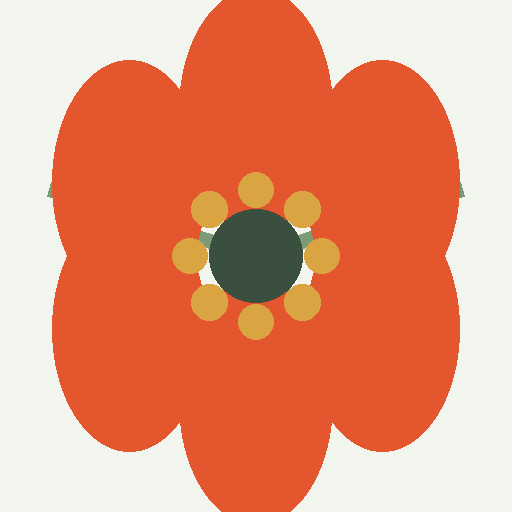
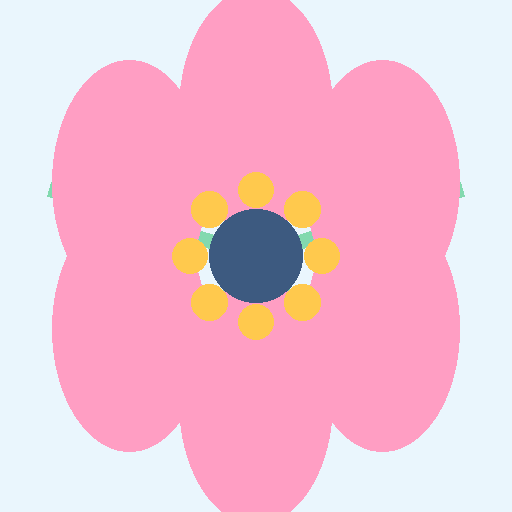
Recolor to cute sky-blue gingham theme, fix dandelion sepal data
Reworks the palette to a soft blue/pink kawaii style with a gingham
background and rounder shapes, matching a reference the user liked.
Also corrects the dandelion's sepal, which is a pappus (many, no
fixed count) rather than a quizzable number, per the printed
reference material the user shared.

diff --git a/index.html b/index.html
@@ -4,7 +4,7 @@
 <meta charset="UTF-8">
 <meta name="viewport" content="width=device-width, initial-scale=1.0">
 <title>花のつくり暗記ゲーム</title>
-<meta name="theme-color" content="#E4572E">
+<meta name="theme-color" content="#5FA8DE">
 <meta name="description" content="花の構造・虫媒花風媒花・花粉の形を覚えるクイズゲーム">
 <link rel="manifest" href="manifest.json">
 <link rel="icon" href="icons/favicon.png">
@@ -14,50 +14,59 @@
 <meta name="apple-mobile-web-app-title" content="花のつくり">
 <style>
   :root{
-    --bg:#F2F5EE;
-    --bg-grid:#E3EAD7;
+    --bg:#EAF6FD;
+    --bg-grid:#E1F1FC;
+    --gingham-a: rgba(94,169,222,.24);
+    --gingham-b: rgba(94,169,222,.13);
     --card:#FFFFFF;
-    --ink:#1F2E22;
-    --ink-soft:#55655A;
-    --border:#D8E2CB;
-    --accent:#E4572E;     /* 花びら色 */
-    --accent-2:#D9A441;   /* おしべ色 */
-    --sage:#7A9B76;       /* がく色 */
-    --pistil:#3A4F3D;     /* めしべ色 */
-    --good:#3F8A52;
-    --bad:#C4483A;
-    --shadow: 0 1px 2px rgba(31,46,34,.06), 0 6px 16px rgba(31,46,34,.08);
+    --ink:#33495A;
+    --ink-soft:#6F93AA;
+    --border:#CFE7F7;
+    --accent:#5FA8DE;     /* UIのメインカラー(水色) */
+    --accent-2:#FFC94D;   /* おしべ色・ハイライト */
+    --petal:#FF9EC3;      /* 花びら色 */
+    --sage:#82D9AF;       /* がく色 */
+    --pistil:#3D5A80;     /* めしべ色 */
+    --good:#4FBE8C;
+    --bad:#F2897D;
+    --shadow: 0 2px 6px rgba(95,168,222,.12), 0 10px 26px rgba(95,168,222,.18);
   }
   :root[data-theme="dark"]{
-    --bg:#121A14;
-    --bg-grid:#18221A;
-    --card:#1B241C;
-    --ink:#E9F0E3;
-    --ink-soft:#A9B9A0;
-    --border:#2A3A28;
-    --accent:#F0714B;
-    --accent-2:#E8B65B;
-    --sage:#8FB389;
-    --pistil:#DCE7D6;
-    --good:#63B579;
-    --bad:#E4795F;
-    --shadow: 0 1px 2px rgba(0,0,0,.3), 0 8px 20px rgba(0,0,0,.35);
+    --bg:#15212C;
+    --bg-grid:#1C2C39;
+    --gingham-a: rgba(111,187,239,.16);
+    --gingham-b: rgba(111,187,239,.08);
+    --card:#1E2F3C;
+    --ink:#E8F5FC;
+    --ink-soft:#9BC2DA;
+    --border:#2D4356;
+    --accent:#6FBBEF;
+    --accent-2:#FFD873;
+    --petal:#FFACCF;
+    --sage:#7BD3A5;
+    --pistil:#CDE3F6;
+    --good:#63D19B;
+    --bad:#FF9686;
+    --shadow: 0 2px 6px rgba(0,0,0,.35), 0 10px 28px rgba(0,0,0,.42);
   }
   @media (prefers-color-scheme: dark){
     :root:not([data-theme="light"]){
-      --bg:#121A14;
-      --bg-grid:#18221A;
-      --card:#1B241C;
-      --ink:#E9F0E3;
-      --ink-soft:#A9B9A0;
-      --border:#2A3A28;
-      --accent:#F0714B;
-      --accent-2:#E8B65B;
-      --sage:#8FB389;
-      --pistil:#DCE7D6;
-      --good:#63B579;
-      --bad:#E4795F;
-      --shadow: 0 1px 2px rgba(0,0,0,.3), 0 8px 20px rgba(0,0,0,.35);
+      --bg:#15212C;
+      --bg-grid:#1C2C39;
+      --gingham-a: rgba(111,187,239,.16);
+      --gingham-b: rgba(111,187,239,.08);
+      --card:#1E2F3C;
+      --ink:#E8F5FC;
+      --ink-soft:#9BC2DA;
+      --border:#2D4356;
+      --accent:#6FBBEF;
+      --accent-2:#FFD873;
+      --petal:#FFACCF;
+      --sage:#7BD3A5;
+      --pistil:#CDE3F6;
+      --good:#63D19B;
+      --bad:#FF9686;
+      --shadow: 0 2px 6px rgba(0,0,0,.35), 0 10px 28px rgba(0,0,0,.42);
     }
   }
 
@@ -65,10 +74,13 @@
   body{
     margin:0;
     min-height:100vh;
-    background:
-      linear-gradient(var(--bg-grid) 1px, transparent 1px) 0 0/28px 28px,
-      linear-gradient(90deg, var(--bg-grid) 1px, transparent 1px) 0 0/28px 28px,
-      var(--bg);
+    background-color:var(--bg);
+    background-image:
+      repeating-linear-gradient(0deg, transparent, transparent 19px, var(--gingham-a) 19px, var(--gingham-a) 38px),
+      repeating-linear-gradient(90deg, transparent, transparent 19px, var(--gingham-a) 19px, var(--gingham-a) 38px),
+      repeating-linear-gradient(0deg, transparent, transparent 9px, var(--gingham-b) 9px, var(--gingham-b) 19px),
+      repeating-linear-gradient(90deg, transparent, transparent 9px, var(--gingham-b) 9px, var(--gingham-b) 19px);
+    background-attachment: fixed;
     color:var(--ink);
     font-family: "BIZ UDPGothic","Hiragino Maru Gothic ProN","Yu Gothic Medium","Yu Gothic","Hiragino Sans","Noto Sans JP",sans-serif;
     -webkit-font-smoothing:antialiased;
@@ -83,17 +95,27 @@
     margin-bottom:22px;
   }
   .eyebrow{
+    display:inline-block;
     font-size:12px;
-    letter-spacing:.14em;
-    color:var(--ink-soft);
-    text-transform:uppercase;
-    font-family:"Hiragino Mincho ProN","Yu Mincho",serif;
+    letter-spacing:.1em;
+    color:var(--accent);
+    font-weight:700;
+    background:color-mix(in srgb, var(--accent) 14%, transparent);
+    padding:4px 14px;
+    border-radius:999px;
   }
   h1{
-    margin:6px 0 4px;
+    margin:12px 0 4px;
     font-size:clamp(24px,5vw,32px);
     text-wrap:balance;
     letter-spacing:.02em;
+  }
+  h1::before, h1::after{
+    content:"🎀";
+    font-size:0.55em;
+    margin:0 10px;
+    vertical-align:middle;
+    opacity:.85;
   }
   .sub{
     color:var(--ink-soft);
@@ -112,7 +134,7 @@
     font-size:14px;
     font-weight:700;
     padding:10px 16px;
-    border-radius:10px 10px 0 0;
+    border-radius:16px 16px 0 0;
     border:1px solid var(--border);
     border-bottom:none;
     background:var(--bg-grid);
@@ -132,9 +154,9 @@
   .panel{
     background:var(--card);
     border:1px solid var(--border);
-    border-radius:0 12px 12px 12px;
+    border-radius:6px 22px 22px 22px;
     box-shadow:var(--shadow);
-    padding:22px;
+    padding:24px;
   }
   .panel[hidden]{ display:none; }
 
@@ -161,7 +183,7 @@
     position:absolute;
     inset:0;
     backface-visibility:hidden;
-    border-radius:10px;
+    border-radius:18px;
     border:1px solid var(--border);
     display:flex;
     flex-direction:column;
@@ -244,7 +266,7 @@
     font-size:16px;
     font-weight:700;
     padding:14px 6px;
-    border-radius:10px;
+    border-radius:16px;
     border:1px solid var(--border);
     background:var(--bg-grid);
     color:var(--ink);
@@ -270,8 +292,8 @@
     margin:18px auto 0;
     font:inherit;
     font-weight:700;
-    padding:10px 22px;
-    border-radius:10px;
+    padding:11px 24px;
+    border-radius:999px;
     border:none;
     background:var(--accent);
     color:#fff;
@@ -311,7 +333,7 @@
   @media (max-width:520px){ .compare{ grid-template-columns:1fr; } }
   .compare .col{
     border:1px solid var(--border);
-    border-radius:10px;
+    border-radius:18px;
     padding:14px;
     background:var(--bg-grid);
   }
@@ -343,7 +365,7 @@
   }
   .pollen-card{
     border:1px solid var(--border);
-    border-radius:10px;
+    border-radius:18px;
     background:var(--bg-grid);
     padding:12px;
     text-align:center;
@@ -358,7 +380,7 @@
     padding:2px 8px;
     border-radius:999px;
   }
-  .pollen-card .ptype.insect{ background:color-mix(in srgb, var(--accent) 20%, transparent); color:var(--accent); }
+  .pollen-card .ptype.insect{ background:color-mix(in srgb, var(--petal) 22%, transparent); color:var(--petal); }
   .pollen-card .ptype.wind{ background:color-mix(in srgb, var(--sage) 22%, transparent); color:var(--sage); }
   .pollen-card .pdesc{ font-size:12px; color:var(--ink-soft); line-height:1.5; }
 
@@ -373,7 +395,7 @@
     flex:1;
     min-width:110px;
     border:1px solid var(--border);
-    border-radius:10px;
+    border-radius:16px;
     padding:12px;
     text-align:center;
     background:var(--bg-grid);
@@ -430,7 +452,7 @@
     gap:10px;
     padding:9px 12px;
     border:1px solid var(--border);
-    border-radius:8px;
+    border-radius:14px;
     margin-bottom:6px;
     background:var(--bg-grid);
     font-size:13px;
@@ -464,6 +486,7 @@
     .flip-card .inner{ transition:none; }
   }
 </style>
+
 </head>
 <body>
 
@@ -612,11 +635,11 @@ const FLOWERS = [
   { name:"アサガオ",   fam:"ヒルガオ科", sepal:5, petal:5, stamen:5, pistil:1, note:"花びらは合弁（くっついている）" },
   { name:"エンドウ",   fam:"マメ科", sepal:5, petal:5, stamen:10, pistil:1, note:"蝶形の花、おしべ10本(9+1)" },
   { name:"サクラ",     fam:"バラ科", sepal:5, petal:5, stamen:30, pistil:1, note:"おしべは多数(約30本前後)" },
-  { name:"タンポポ",   fam:"キク科", sepal:5, petal:5, stamen:5, pistil:1, note:"1つの小花あたりの数。頭花は小花の集合" },
+  { name:"タンポポ",   fam:"キク科", sepal:8, petal:5, stamen:5, pistil:1, note:"1つの小花あたりの数。頭花は小花の集合", skipQuiz:["sepal"], display:{sepal:"多数（冠毛）"} },
 ];
 const PARTS = [
   { key:"sepal", label:"がく", unit:"枚", color:"var(--sage)" },
-  { key:"petal", label:"花びら", unit:"枚", color:"var(--accent)" },
+  { key:"petal", label:"花びら", unit:"枚", color:"var(--petal)" },
   { key:"stamen", label:"おしべ", unit:"本", color:"var(--accent-2)" },
   { key:"pistil", label:"めしべ", unit:"本", color:"var(--pistil)" },
 ];
@@ -632,7 +655,7 @@ function diagramSVG(f, size){
   const petalCount = Math.min(f.petal, 12);
   for(let i=0;i<petalCount;i++){
     const a = (i/petalCount)*2*Math.PI - Math.PI/2;
-    parts += `<ellipse cx="${c+rPetal*Math.cos(a)}" cy="${c+rPetal*Math.sin(a)}" rx="${size*0.11}" ry="${size*0.16}" transform="rotate(${a*180/Math.PI+90} ${c+rPetal*Math.cos(a)} ${c+rPetal*Math.sin(a)})" fill="var(--accent)" opacity="0.85"/>`;
+    parts += `<ellipse cx="${c+rPetal*Math.cos(a)}" cy="${c+rPetal*Math.sin(a)}" rx="${size*0.11}" ry="${size*0.16}" transform="rotate(${a*180/Math.PI+90} ${c+rPetal*Math.cos(a)} ${c+rPetal*Math.sin(a)})" fill="var(--petal)" opacity="0.85"/>`;
   }
   const stamenCount = Math.min(f.stamen, 20);
   for(let i=0;i<stamenCount;i++){
@@ -653,6 +676,7 @@ function getAudioCtx(){
 function playCorrect(){
   const ctx = getAudioCtx();
   const now = ctx.currentTime;
+  // bright 3-note rising arpeggio, each note layered with a fifth above for body
   [523.25, 659.25, 987.77].forEach((freq, i)=>{
     const t = now + i*0.1;
     [1, 1.5].forEach((mult, j)=>{
@@ -673,6 +697,7 @@ function playCorrect(){
 function playWrong(){
   const ctx = getAudioCtx();
   const now = ctx.currentTime;
+  // two-note "buzzer" descent, layered sawtooth + square for a fuller thud
   [0, 0.16].forEach((offset, i)=>{
     const t = now + offset;
     const startFreq = i===0 ? 220 : 164;
@@ -781,6 +806,7 @@ const CONSOLE_MSG = [
   "今のはメモしておこう","惜しい、もう一歩","気にしない、次！","ここ覚えたら勝ち"
 ];
 let globalStreak = 0, globalBest = 0;
+let lastPraise = "", lastConsole = "";
 function pick(arr){ return arr[Math.floor(Math.random()*arr.length)]; }
 function pickVaried(arr, lastRef){
   if(arr.length<=1) return arr[0];
@@ -813,7 +839,7 @@ FLOWERS.forEach(f=>{
         <div class="fam">${f.fam}</div>
       </div>
       <div class="face back">
-        ${PARTS.map(p=>`<div class="row"><span class="label">${p.label}</span><span class="val">${f[p.key]}${p.unit}</span></div>`).join('')}
+        ${PARTS.map(p=>`<div class="row"><span class="label">${p.label}</span><span class="val">${(f.skipQuiz && f.skipQuiz.includes(p.key) && f.display && f.display[p.key]) ? f.display[p.key] : f[p.key]+p.unit}</span></div>`).join('')}
         <div class="pollinate">虫媒花</div>
       </div>
     </div>`;
@@ -861,7 +887,7 @@ let quizQueue = [], qIndex = 0, correctCount = 0, answered = false;
 function buildQuizQueue(){
   const pool = FLOWERS.filter(f=>scopeSet.has(f.name));
   let items = [];
-  pool.forEach(f=> PARTS.forEach(p=> items.push({f,p})));
+  pool.forEach(f=> PARTS.forEach(p=> { if(!(f.skipQuiz && f.skipQuiz.includes(p.key))) items.push({f,p}); }));
   if(weakOnlyNum){
     items = items.filter(({f,p})=> isWeak(`num|${f.name}|${p.key}`));
   }
@@ -917,6 +943,8 @@ function renderQuestion(){
   qFlowerName.textContent = f.name + `（${f.fam}）`;
   qPrompt.innerHTML = `<b>${p.label}</b>の数はいくつ？`;
   qDiagram.outerHTML = diagramSVG(f,110).replace('<svg','<svg id="qDiagram" class="q-diagram"');
+  Object.assign(window, {}); // no-op keep ref fresh
+  const freshDiagram = document.getElementById('qDiagram');
   qFeedback.textContent = "";
   qFeedback.className = "feedback";
   qNext.hidden = true;
@@ -1044,7 +1072,7 @@ const POLLEN = [
 
 function pollenSVG(shape, size){
   const c = size/2;
-  const insectColor = "var(--accent)";
+  const insectColor = "var(--petal)";
   const windColor = "var(--sage)";
   let body = "";
   switch(shape){
@@ -1274,7 +1302,7 @@ let finalQueue = [], finalIndex = 0, finalCorrect = 0;
 
 function buildFinalQueue(){
   const items = [];
-  FLOWERS.forEach(f=> PARTS.forEach(p=> items.push({kind:'num', f, p})));
+  FLOWERS.forEach(f=> PARTS.forEach(p=> { if(!(f.skipQuiz && f.skipQuiz.includes(p.key))) items.push({kind:'num', f, p}); }));
   pollinateExamples.forEach(it=> items.push({kind:'pol', item:it}));
   POLLEN.forEach(it=> items.push({kind:'poln', item:it}));
   shuffleArr(items);
